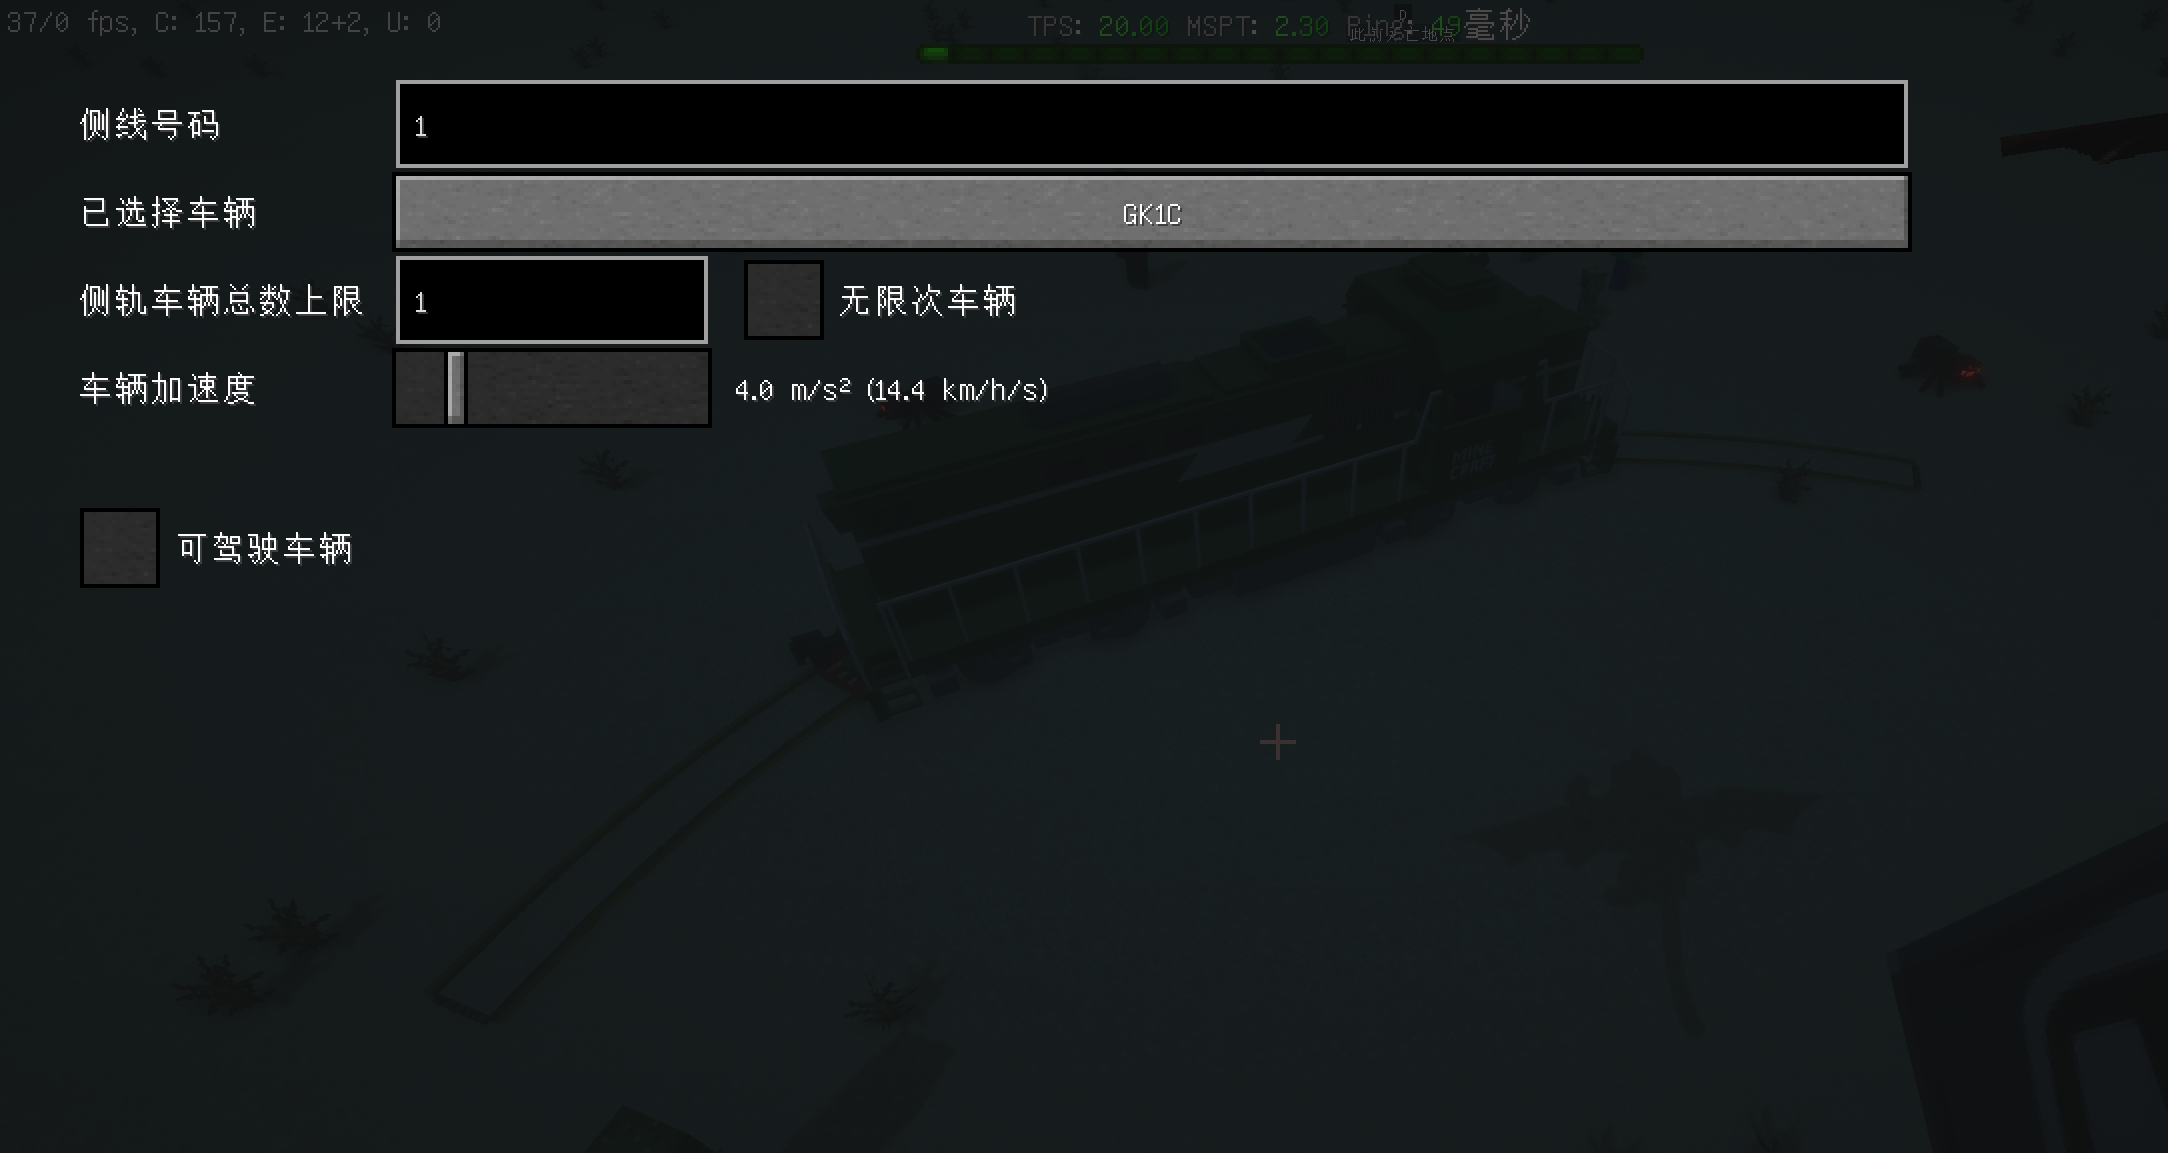
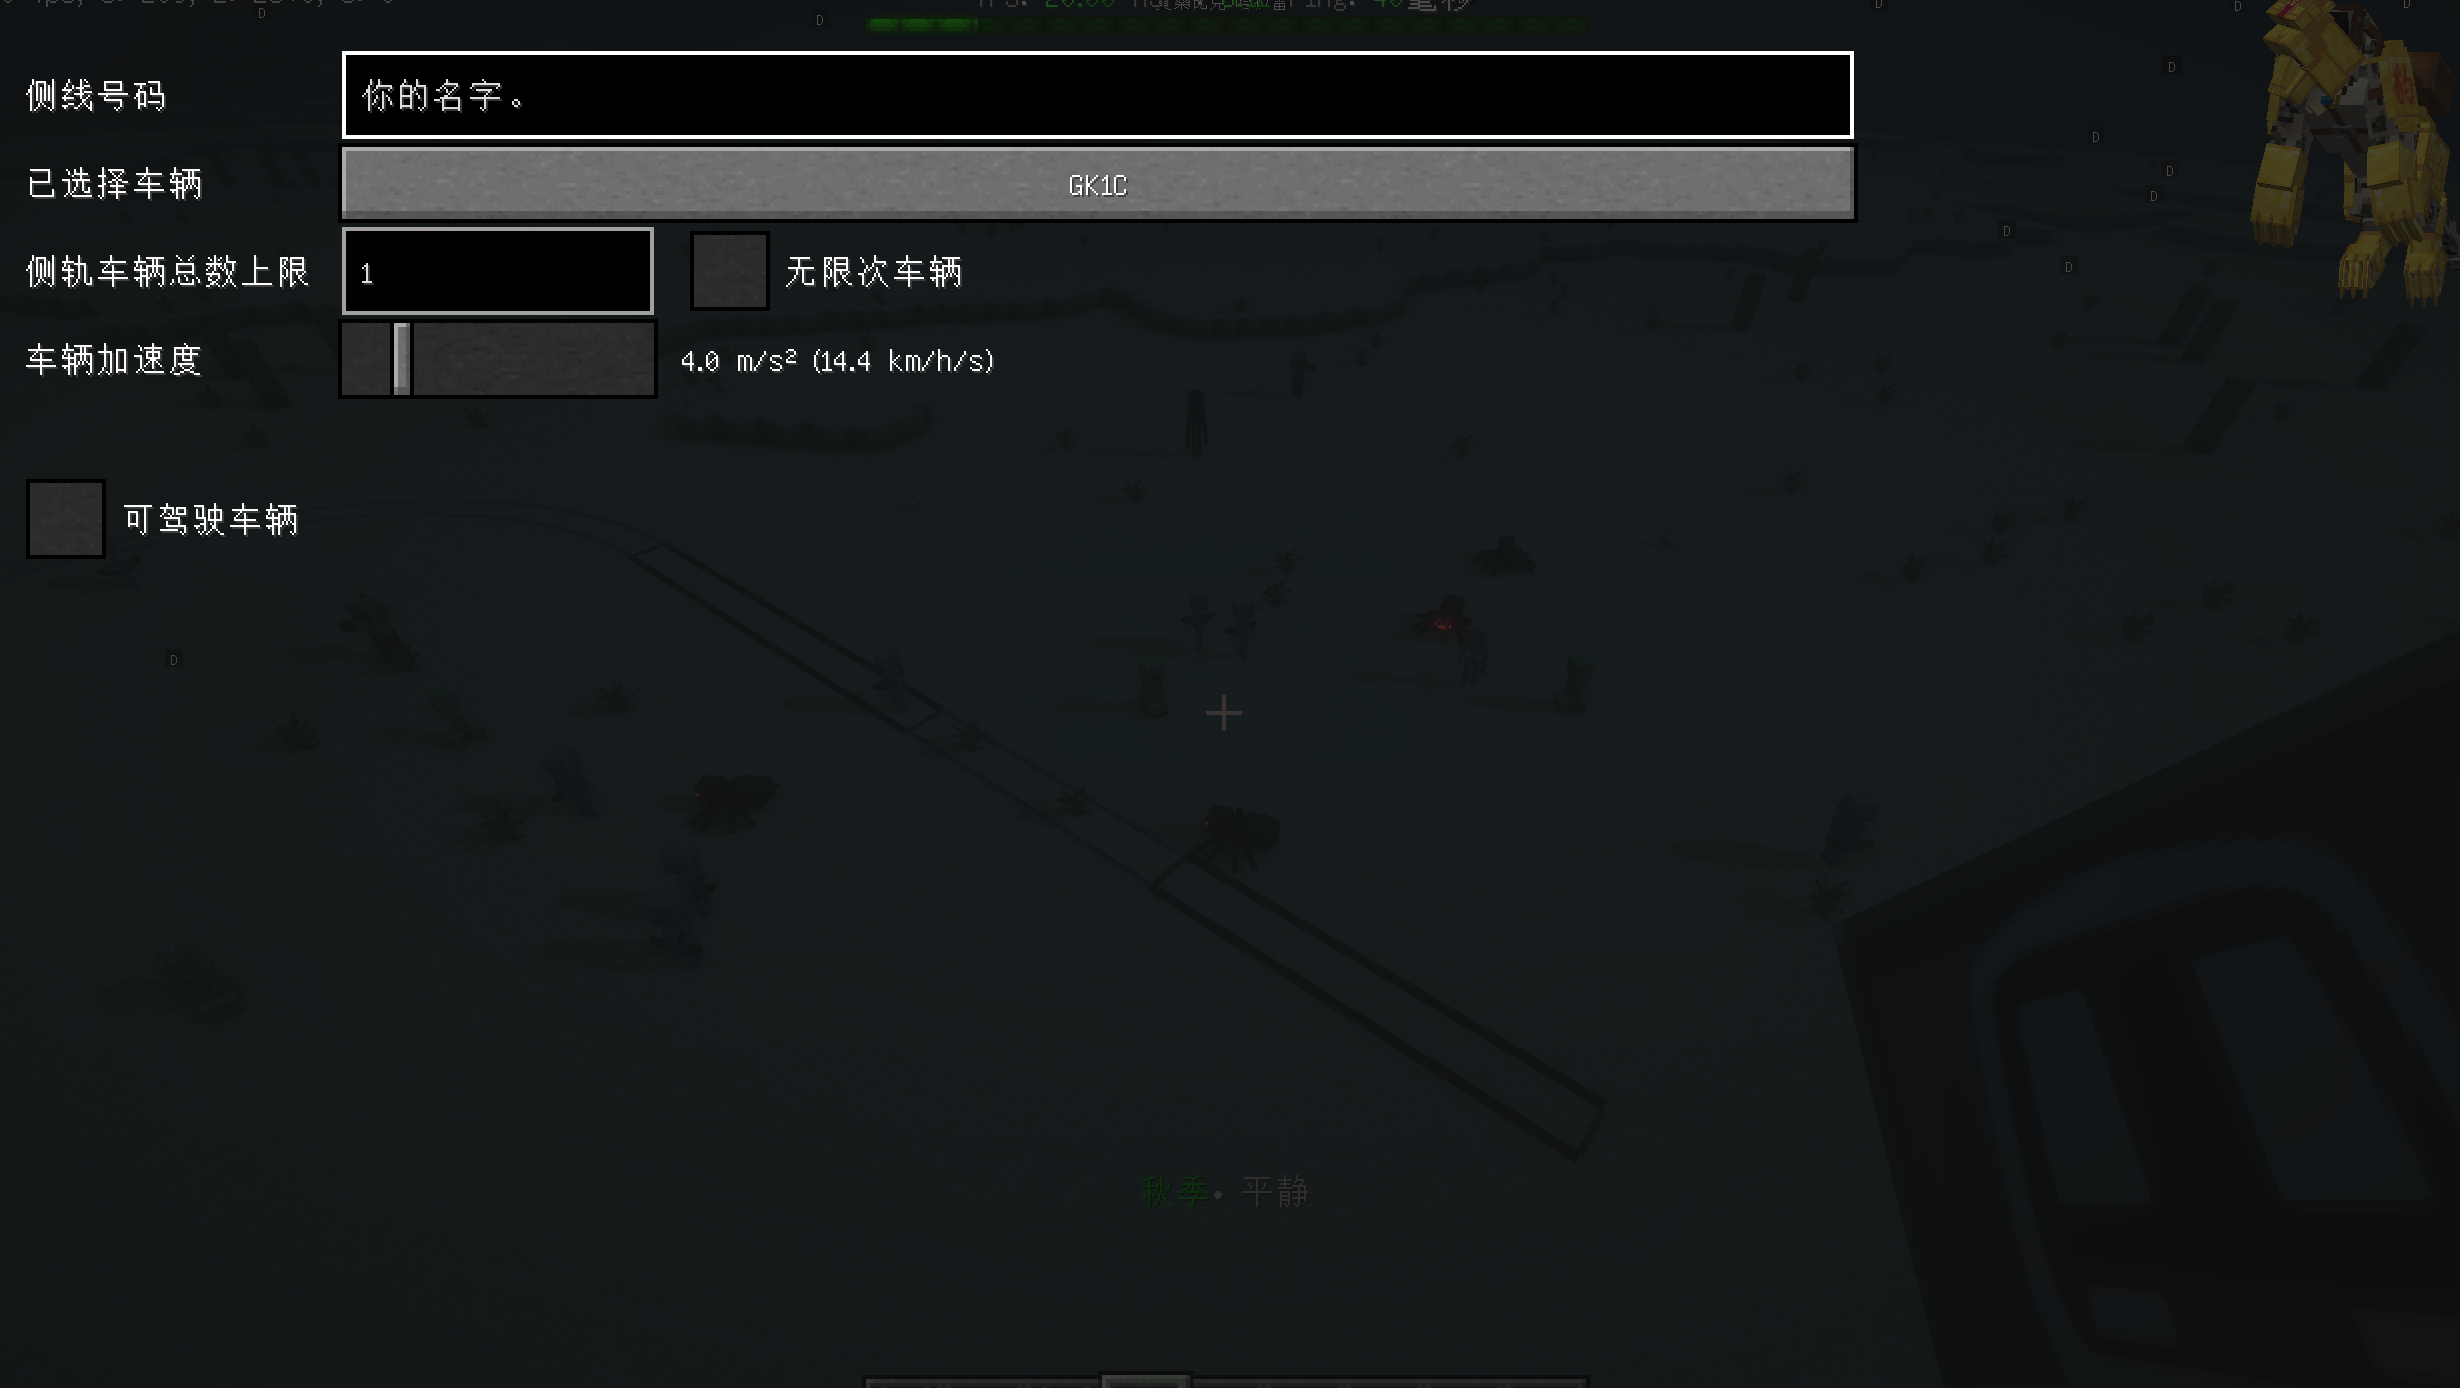
MTR更新

diff --git a/docs/article/mtr.md b/docs/article/mtr.md
@@ -1,4 +1,4 @@
-# MTR全教程
+# MTR全教程——铁路部分
 
 ## 别人的视频教学
 
@@ -34,9 +34,9 @@
 
 ![](/others/MTR/铁路仪表盘2.png)
 
-仔细看你能注意到地图里的方形小白点 *（真的很小）*
+仔细看你能注意到地图里的方形小白点，这就是列车 *（真的很小）*
 
-**按住框选一片区域作为车库**
+**按住框选一片区域作为车库，并且包含白点**
 
 ![](/others/MTR/铁路仪表盘3.png)
 
@@ -48,6 +48,8 @@
 
 这里我选择**GK1C**机车
 
+“侧线号码”就是仪表盘小地图上面白点的名字，放大就能显示，如果你车比较多请务必给每个车取名，以免搞混
+
 ![](/others/MTR/铁路仪表盘4.png)
 
 帅气威风的火车头出现了~
@@ -58,11 +60,113 @@
 
 这辆车和轨道一样，也是摸不着打不掉的，轨道和车体都由轨道节点决定，轨道节点是一切的本体
 
-### 未完待续
+**小贴士**：如果要批量生成列车，可以先框选一片很大的区域，之后在范围内只要有车厂轨道连接，就会立马出现列车，一个车厂区域可以有多条车
 
-*文档施工中，先休息一会*
+### 动起来
 
+然后怎么让列车动起来呢？
 
+#### 设置站点
 
+两点一线，用站台轨道连接器分别点击两处节点，生成“站台轨道”（红色），并和车库轨道连接
 
+![](/others/MTR/设置站点1.png)
 
+打开铁路仪表盘，点击**新建车站**，和创建车厂一样，将白点框选在内，取名。
+
+![](/others/MTR/设置站点2.png)
+
+至少需要两处站台轨道，你可以创建两个车站或是在同一个车站区域内放置两条站台轨道
+
+这里因为距离短，为方便演示，就在同一个车站区域放置两条轨道了。和车厂一样，一个车站区域可以有多个站台轨道，可以理解成“多个停靠点”
+
+![](/others/MTR/设置站点3.png)
+
+#### 编辑车站信息
+
+**轨道太远了，遇到这种情况该怎么办呢**
+
+![](/others/MTR/设置站点4.png)
+
+首先找到你要编辑的那个，可以在左边搜一下
+
+光标悬停在名字那里会显示四个按钮，你可以
+
+- **快速定位**
+
+- **查询框选**
+- **改名**
+- **删除**
+
+然后重新框选新的范围就行了，右边也会显示已包含的停靠点<br>车厂区域也一样
+
+![](/others/MTR/设置站点5.png)
+
+![](/others/MTR/设置站点6.png)
+
+**小贴士**：点击停靠点，也能给停靠点也取名字哦，记住这个，待会设置路线要考
+
+#### 设置线路
+
+**创建一条路线**
+仪表盘路线栏目→新增路线→给路线取名并依次点击停靠点
+
+![](/others/MTR/设置路线1.png)
+
+你只需要按先后顺序选择你想要列车停靠的点就行了，但是要注意，列车是“就近原则”的，它们总会走最短的路径，所以当你有比较复杂的铁路走线，车辆可能会不按你预想的走
+
+**给列车载入路线**
+
+回到车厂，点击编辑按钮
+
+![](/others/MTR/设置路线2.png)
+
+右边是一天各时间段车启动的密度，一般保持默认就好
+
+然后点进“编辑指令”，你就可以添加路线了
+
+![](/others/MTR/设置路线3.png)
+
+可以添加多条的路线，只要保证所选路线的车站停靠点都连接在一起
+
+![](/others/MTR/设置路线4.png)
+
+提示路线创建成功后，列车就会立刻开始走动
+
+![](/others/MTR/设置路线5.png)
+
+## 驾驶或乘坐
+
+### 乘坐
+
+如果你没有在车厂的列车编辑里勾选“可驾驶车辆”，列车就会自动运行，这时候你需要在红轨旁边放置站台（方块），站台朝向不限，但必须与红轨隔1单位
+
+![](/others/MTR/乘坐1.png)
+
+有了站台，列车停靠后就会开门（如果有门的话），你直接走进去就行了，玩家会自动吸附在车内，你可以随意走动，在门关上之前往外走可以离开列车
+
+![](/others/MTR/乘坐2.png)
+
+### 驾驶
+
+需要你勾选这个，勾选了“可驾驶车辆”，列车就不会自己走出车库了
+
+![](/others/MTR/驾驶1.png)
+
+拿出“司机钥匙”，然后走上去（无需站台方块）
+
+![](/others/MTR/驾驶2.png)
+
+`WSAD`控制玩家在车内移动
+
+列车需要通过`↑`（前进）`↓`（减速和停车）操作（可以设置自己喜欢的）
+
+`←``→`键分别控制两侧的车门（如果停在红轨道且旁边放着站台方块时车门可以打开）
+
+按下`↑`列车就会开始沿着你设定的路线行驶（因此你无法随意前进/后退），依次经过车站停靠点，到站会自动停下，再次点击`↑`可以让列车再次行驶
+
+**温馨提示**：不要中途下车太久，列车有驾驶超时机制，最长可以设置10分钟。
+
+如果你真的~~很不幸~~被车跑掉了，你只能等着它走完本次路线全程然后回到车库了
+
+至此你已掌握基本MTR铁路系统的使用方法
